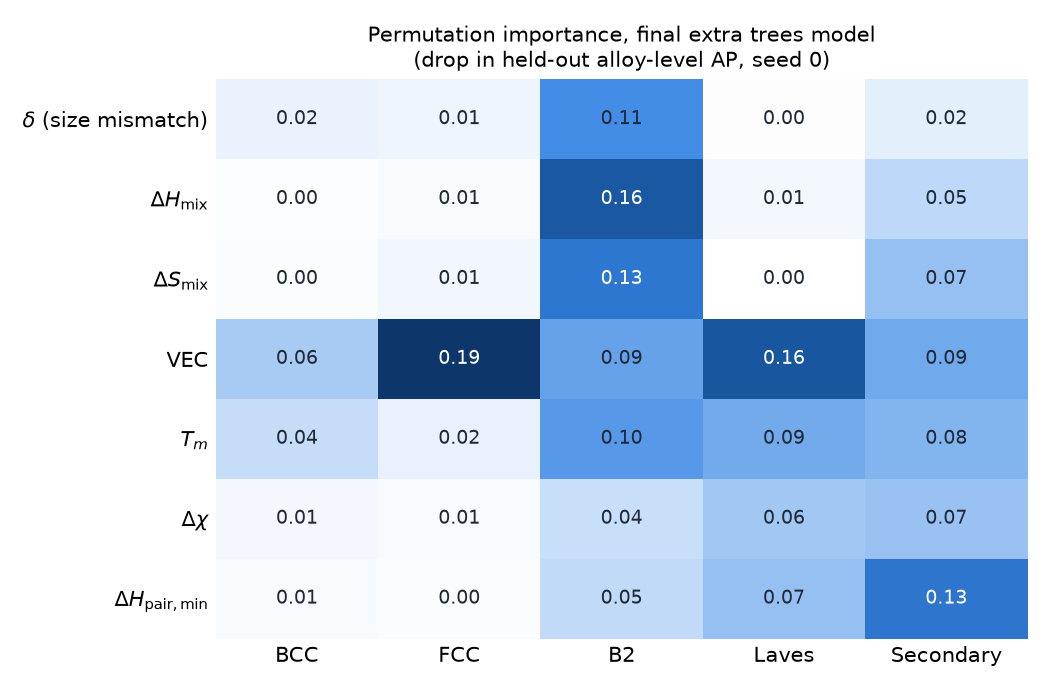
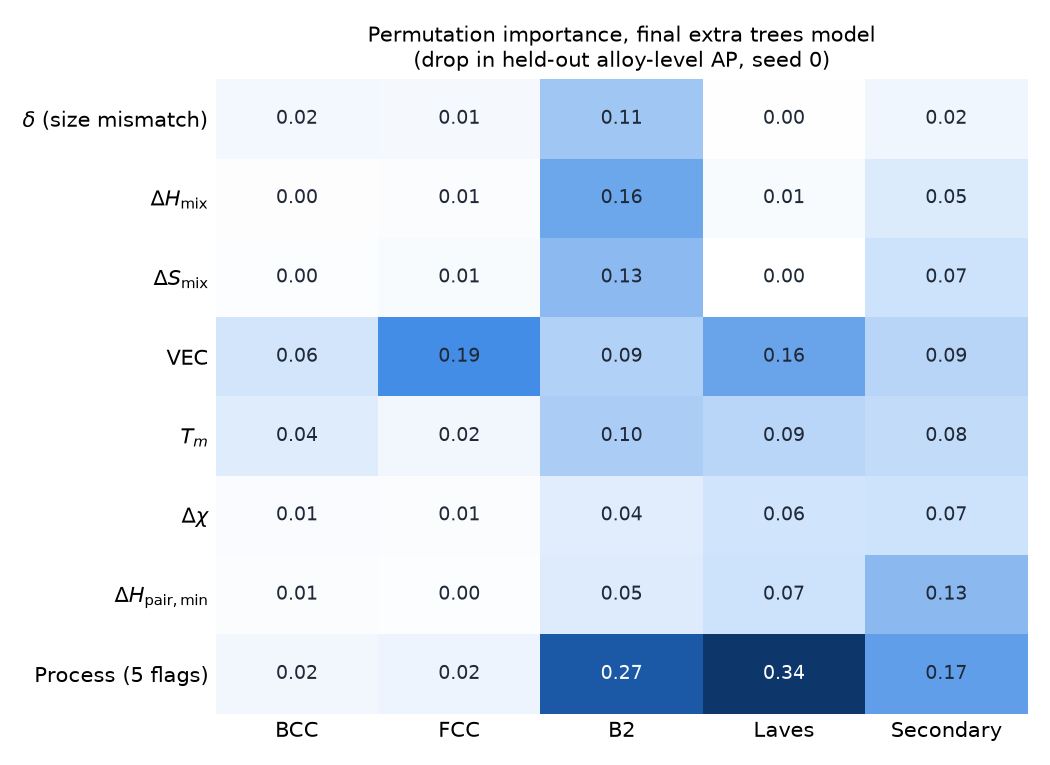
Add a summed Process row to the final model's permutation importance
The five processing flags are shuffled together across the records of each
held-out fold and shown as one Process row in the table and figure. The text
under the figure now describes the permutation-based figure of the final
model. Descriptor importances are unchanged.

Claude-Session: https://claude.ai/code/session_01AAGJt8iuha1vogtLwr3Qy8

diff --git a/research/modelling_multilabel.py b/research/modelling_multilabel.py
@@ -124,15 +124,19 @@ for name in ["et_balanced", "et"]:
                          "brier": np.mean((oof.values - y) ** 2), "ece": ece(y, oof.values), "mean_p": oof.mean()})
 print(pd.DataFrame(rows).groupby(["model", "phase"])[["ap", "brier", "ece", "mean_p"]].mean().round(3))
 
-def permutation_importance_phase(model, phase, fold, cols, permute=None, seed=0):
+def permutation_importance_phase(model, phase, fold, cols, permute=None, blocks=None, seed=0):
     # drop in alloy-level AP when one descriptor is shuffled across the alloys of each test fold;
     # one value per composition, applied to all its rows, so repeated alloys are not over-weighted
-    # (descriptors are identical within a composition up to rounding of the formula)
+    # (descriptors are identical within a composition up to rounding of the formula).
+    # blocks: groups of columns that vary within a composition (the processing flags); each block
+    # is shuffled jointly across the records of the test fold, with its own random stream
     rng = np.random.default_rng(seed)
+    rng_blocks = np.random.default_rng(seed + 1)
+    blocks = blocks or {}
     X = feature[cols]
     base = pd.Series(0.0, index=feature.index)
     permute = cols if permute is None else permute
-    perm = {c: pd.Series(0.0, index=feature.index) for c in permute}
+    perm = {c: pd.Series(0.0, index=feature.index) for c in list(permute) + list(blocks)}
     for k in range(5):
         train, test = fold != k, fold == k
         m = clone(model).fit(X[train], Y.loc[train, phase])
@@ -143,13 +147,19 @@ def permutation_importance_phase(model, phase, fold, cols, permute=None, seed=0)
             shuffled = pd.Series(rng.permutation(per_alloy.values), index=per_alloy.index)
             Xp[c] = group[test].map(shuffled).values
             perm[c][test] = m.predict_proba(Xp)[:, 1]
+        for name, bcols in blocks.items():
+            Xp = X[test].copy()
+            Xp[bcols] = Xp[bcols].values[rng_blocks.permutation(len(Xp))]
+            perm[name][test] = m.predict_proba(Xp)[:, 1]
     true = (Y[phase].groupby(group).mean() >= 0.5).astype(int)
     ap0 = average_precision_score(true, base.groupby(group).mean().loc[true.index])
-    return {c: ap0 - average_precision_score(true, perm[c].groupby(group).mean().loc[true.index]) for c in permute}
+    return {c: ap0 - average_precision_score(true, perm[c].groupby(group).mean().loc[true.index]) for c in perm}
 
-# final model: unweighted extra trees on the 12 inputs; only the seven descriptors are permuted
+# final model: unweighted extra trees on the 12 inputs; the seven descriptors one at a time,
+# the five processing flags together as one "Process" input
 descriptors = physics + ["h_min_pair"]
-imp = pd.DataFrame({p: permutation_importance_phase(models["et"], p, folds[0], model_cols, descriptors) for p in phases})
+imp = pd.DataFrame({p: permutation_importance_phase(models["et"], p, folds[0], model_cols, descriptors, {"Process": proc})
+                    for p in phases})
 print(imp.round(3))
 
 names = {
@@ -160,9 +170,10 @@ names = {
     "mean_melting_point": r"$T_m$",
     "delta_chi": r"$\Delta\chi$",
     "h_min_pair": r"$\Delta H_{\mathrm{pair,min}}$",
+    "Process": "Process (5 flags)",
 }
 blues = LinearSegmentedColormap.from_list("blues", ["#ffffff", "#cde2fb", "#86b6ef", "#3987e5", "#1c5cab", "#0d366b"])
-fig, ax = plt.subplots(figsize=(7, 4.6))
+fig, ax = plt.subplots(figsize=(7, 5.1))
 ax.imshow(imp.clip(lower=0).values, cmap=blues, vmin=0, vmax=imp.values.max(), aspect="auto")
 for i in range(imp.shape[0]):
     for j in range(imp.shape[1]):
@@ -170,7 +181,7 @@ for i in range(imp.shape[0]):
         ax.text(j, i, f"{0.0 if abs(v) < 0.005 else v:.2f}", ha="center", va="center", fontsize=9,
                 color="white" if v > 0.6 * imp.values.max() else "#1f2937")
 ax.set_xticks(range(len(phases)), ["BCC", "FCC", "B2", "Laves", "Secondary"])
-ax.set_yticks(range(len(descriptors)), [names[d] for d in descriptors])
+ax.set_yticks(range(len(imp.index)), [names[d] for d in imp.index])
 ax.tick_params(length=0)
 for sp in ax.spines.values():
     sp.set_visible(False)

diff --git a/README.md b/README.md
@@ -43,7 +43,7 @@ The final model replaces the random forest with extra trees, which is the main d
 - **Class weighting does not matter for extra trees.** Balanced and unweighted extra trees have the same AP (Laves 0.658 vs 0.657) and nearly the same calibration. Unweighted is slightly better for secondary phases (row-level Brier 0.084 vs 0.091), so the final phase models are unweighted.
 - **What did not help Laves:** the Omega parameter, gamma and lambda parameters, VEC spread, radius-ratio descriptors, and gradient-boosted trees (scikit-learn, LightGBM, XGBoost), which scored 0.53 to 0.58. Adding the 28 element fractions raises Laves AP to about 0.72 but makes the model less physics-based, so the app does not use them.
 
-Permutation importance of each descriptor in the final model (unweighted extra trees, 12 inputs, split seed 0): the drop in alloy-level AP when the descriptor is shuffled across the alloys of each held-out fold, with one value per composition so repeated alloys are not over-weighted.
+Permutation importance in the final model (unweighted extra trees, 12 inputs, split seed 0): the drop in alloy-level AP when an input is shuffled within each held-out fold. Each descriptor is shuffled across alloys, with one value per composition so repeated alloys are not over-weighted. The five processing flags are shuffled together as one input (Process), across records, because the processing route can differ between records of the same alloy.
 
 | Descriptor | BCC | FCC | B2 | Laves | Secondary |
 |---|---|---|---|---|---|
@@ -54,10 +54,17 @@ Permutation importance of each descriptor in the final model (unweighted extra t
 | mean melting point | 0.042 | 0.018 | 0.100 | 0.086 | 0.078 |
 | delta chi | 0.009 | 0.006 | 0.040 | 0.062 | 0.066 |
 | h_min_pair | 0.006 | 0.004 | 0.045 | 0.067 | 0.131 |
+| Process (5 flags) | 0.017 | 0.024 | 0.272 | 0.336 | 0.167 |
 
 ![Permutation importance of the final model](research/feature_importance.png)
 
-VEC drives FCC and is the strongest single descriptor for Laves, matching the classical VEC rule. B2 depends on mixing enthalpy, mixing entropy and size mismatch, with every descriptor contributing. `h_min_pair` is the most important descriptor for secondary phases and the third most important for Laves, after VEC and melting point. Delta H mix, which mattered for Laves in the random forest (0.18 in the previous version of this table), now contributes little (0.01), so the two enthalpy descriptors appear to carry overlapping information. Correlated descriptors share importance, so a low value does not prove a feature is unimportant.
+The figure shows the same values as the table. Rows are the seven descriptors, labelled with their symbols (δ size mismatch, ΔH<sub>mix</sub>, ΔS<sub>mix</sub>, VEC, T<sub>m</sub> mean melting point, Δχ, and ΔH<sub>pair,min</sub> for `h_min_pair`), plus one summed Process row for the five processing flags. Columns are the five phases, and darker cells mean a larger drop in AP. These are held-out permutation importances of the final model, not the impurity importances of the earlier 3-class random forest.
+
+- **BCC and FCC barely depend on any single input except VEC.** VEC is the main input for FCC (0.19). BCC has no input above 0.06, probably because correlated descriptors can stand in for each other.
+- **Processing matters most for the rare phases.** Shuffling the processing route costs 0.34 AP for Laves, 0.27 for B2 and 0.17 for secondary phases, more than any single descriptor. This matches the earlier gain from adding processing to the random forest (Laves 0.47 to 0.55). Process is shuffled across records rather than alloys, so its value is not strictly comparable with the descriptor rows.
+- **Among the descriptors, B2 depends on mixing enthalpy, mixing entropy, size mismatch and melting point.** Laves depends on VEC, then melting point, then `h_min_pair`. Secondary phases depend most on `h_min_pair` (0.13).
+- **The two enthalpy descriptors overlap.** Delta H mix mattered for Laves in the random forest (0.18 in the previous version of this table) but contributes little in the final model (0.01).
+- Correlated descriptors share importance, so a low value does not prove a feature is unimportant. The values come from one split seed.
 
 ### Probability calibration
 
@@ -163,7 +170,7 @@ cleaned_data.csv --> train_final.py --> model.joblib --> app.py
 | `research/feature.py` | Parses formulas into element fractions and computes composition-based descriptors, including mixing enthalpy and the strongest pair enthalpy |
 | `research/label.py` | Splits the microstructure string into binary phase labels |
 | `research/modelling.py` | 3-class baseline with grouped cross-validation, and impurity importances of the 3-class random forest |
-| `research/modelling_multilabel.py` | Multi-label evaluation: per-phase AP for the baseline models, the random forest vs extra trees and `h_min_pair` comparison, class weighting and calibration of the final model, permutation importance of the seven descriptors and `research/feature_importance.png`, and phase-combination accuracy and calibration |
+| `research/modelling_multilabel.py` | Multi-label evaluation: per-phase AP for the baseline models, the random forest vs extra trees and `h_min_pair` comparison, class weighting and calibration of the final model, permutation importance of the seven descriptors and the processing flags, and `research/feature_importance.png`, and phase-combination accuracy and calibration |
 | `research/leakage.py` | Random vs composition-grouped cross-validation for the per-phase and combination random forests, writes `leakage_results.csv` |
 | `research/calibration.py` | Reliability curves, Brier score and ECE of the per-phase forests (balanced and unweighted, with and without sigmoid and isotonic calibration), and the reliability figure |
 | `featurize.py` | Computes the same descriptors for a single composition typed into the app |
